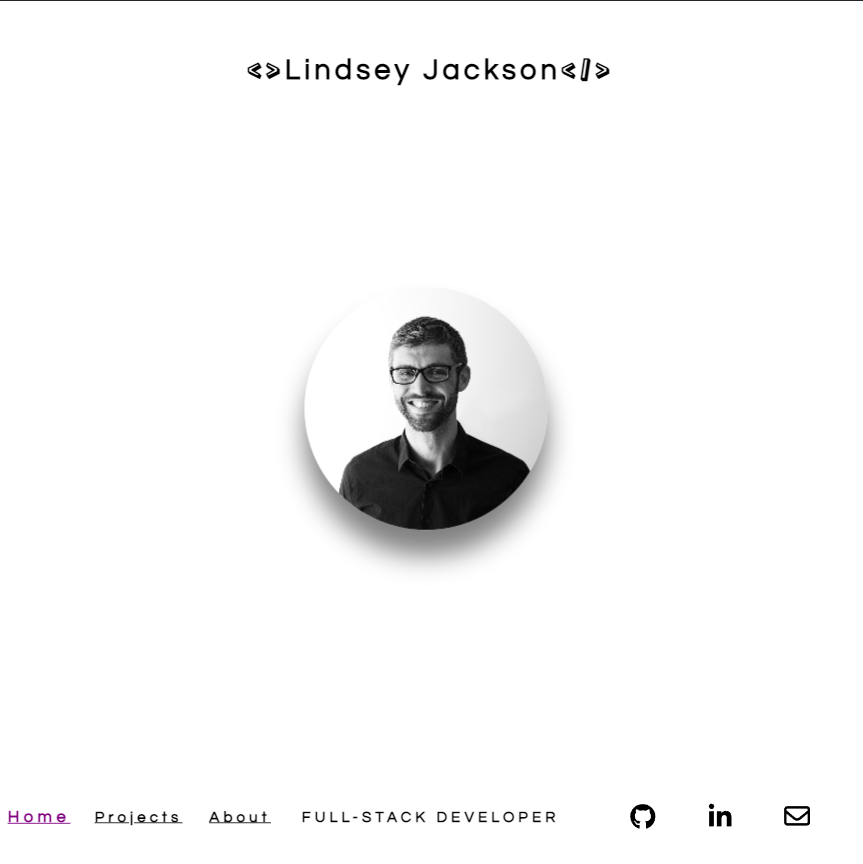
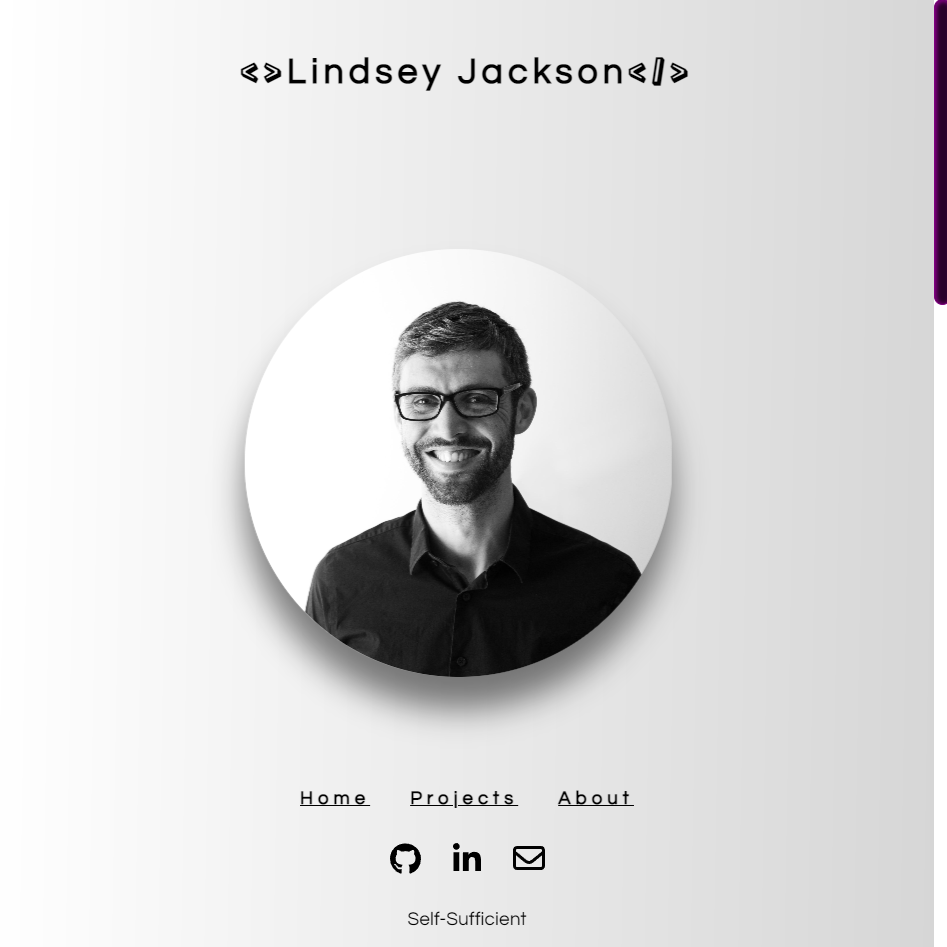
added media for portfolio project slide

diff --git a/src/assets/img/projects/portfolio/index.js b/src/assets/img/projects/portfolio/index.js
@@ -1,8 +1,21 @@
 import { imageWithTheme } from "../../../../util";
 import home from "./home.png";
 import projects from "./projects.png";
+import readMe from "./readMe.png";
+import readMeExpand from "./readMeExpand.png";
+import about from "./about.png";
+import projectsMobile from "./projectsMobile.png";
+import aboutMobile from "./aboutMobile.png";
 
-const images = [home, projects];
-const imgs = imageWithTheme(images, [home]);
+const images = [
+  home,
+  projects,
+  readMe,
+  readMeExpand,
+  about,
+  projectsMobile,
+  aboutMobile,
+];
+const imgs = imageWithTheme(images, [home, readMeExpand]);
 
 export default imgs;
